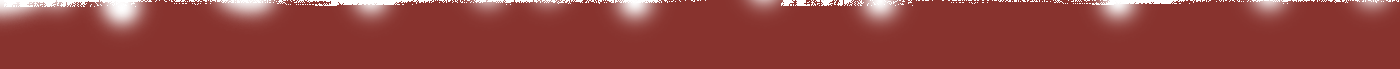
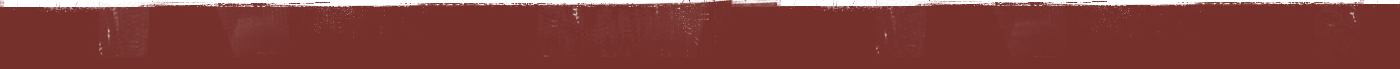
Updated design

Changed region(s): [[0.0, 0.0, 1.0, 0.5217]]

diff --git a/public/css/style_0.0.12.css b/public/css/style_0.0.12.css
@@ -174,23 +174,6 @@ span.amp {
   /* W3C */
   filter: progid:DXImageTransform.Microsoft.gradient( startColorstr='#8ab15f', endColorstr='#8ab52d',GradientType=0 );
   /* IE6-9 */
-  -webkit-box-shadow: 0 2px 2px 0 rgba(0, 0, 0, 0.1) ;
-  -moz-box-shadow: 0 2px 2px 0 rgba(0, 0, 0, 0.1) ;
-  box-shadow: 0 2px 2px 0 rgba(0, 0, 0, 0.1) ;
-  -webkit-border-radius: 5px;
-  -moz-border-radius: 5px;
-  -ms-border-radius: 5px;
-  -o-border-radius: 5px;
-  border-radius: 5px;
-  text-shadow: 0 -1px 0 rgba(0, 0, 0, 0.15);
-  text-align: center;
-  color: #fff;
-  text-transform: uppercase;
-  font-size: rem-calc(25);
-  border-top: 1px solid #8ab15f;
-  border-left: 1px solid #8ab52d;
-  border-right: 1px solid #8ab52d;
-  border-bottom: 1px solid #8ab52d;
 }
 /* line 224, ../scss/_mixins.scss */
 .lime-button:hover, .gd-button:hover, #home-slider .cta-button:hover {
@@ -1329,7 +1312,7 @@ body {
   font-weight: 400;
   line-height: 1.5;
   color: #fff;
-  background: #DDD5C0;
+  background: #88332E;
   -webkit-font-smoothing: antialiased;
   -moz-osx-font-smoothing: grayscale;
 }
@@ -2997,6 +2980,16 @@ h3 small,
 h4 small,
 h5 small,
 h6 small {
+  color: #231a1e;
+  line-height: 0;
+}
+
+nav h1 small a,
+nav h2 small a,
+nav h3 small a,
+nav h4 small a,
+nav h5 small a,
+nav h6 small a{
   color: #231a1e;
   line-height: 0;
 }
@@ -6528,7 +6521,6 @@ body h1 a:hover, body h1 a:active, body h1 a:focus, body h2 a:hover, body h2 a:a
   top: 0;
   left: 0;
   display: block;
-  margin: 8em 0 4em 0;
 }
 
 /* line 61, ../scss/_slider.scss */
@@ -6607,6 +6599,7 @@ body h1 a:hover, body h1 a:active, body h1 a:focus, body h2 a:hover, body h2 a:a
 }
 /* line 107, ../scss/_app-styles.scss */
 #home-slider .slick-slide {
+  min-height: 745px;
   background-position: center center !important;
   background-repeat: no-repeat !important;
 }
@@ -6674,7 +6667,7 @@ body h1 a:hover, body h1 a:active, body h1 a:focus, body h2 a:hover, body h2 a:a
 --------------------------------*/
 /* line 177, ../scss/_app-styles.scss */
 .content-top {
-
+  background: url(../images/backgrounds/bg-body-top.png) repeat-x center top;
   height: 52px;
   margin-top: -140px;
   position: relative;
@@ -6690,7 +6683,8 @@ body h1 a:hover, body h1 a:active, body h1 a:focus, body h2 a:hover, body h2 a:a
 
 /* line 191, ../scss/_app-styles.scss */
 #main-content {
-  background: #DDD5C0 url(../images/backgrounds/bg-body.jpg) repeat center top;
+  background: #88332e url(../images/backgrounds/bg-body.png) no-repeat center top;
+  min-height: 450px;
 }
 
 /*--------------------------------
@@ -6905,10 +6899,9 @@ a.read-more:hover, a.read-more:active, a.read-more:focus {
 --------------------------------*/
 /* line 357, ../scss/_app-styles.scss */
 footer.main-footer {
-  background: #88332E url(../images/backgrounds/bg-footer-fill.png) repeat-x center top;
+  background: #75302c url(../images/backgrounds/bg-footer-fill.png) repeat-x center top;
   padding: 2rem 0 1rem;
-  padding-top: 4em;
-  margin-top: none;
+  /*margin-top: 6.66667rem;*/
 }
 
 /* line 361, ../scss/_app-styles.scss */

diff --git a/resources/views/forums/posts.blade.php b/resources/views/forums/posts.blade.php
@@ -2,19 +2,29 @@
 
 @section('content')
 
-    <section id="main-content" style="margin-top: 50px;">
+    <section class="inner-slider">
+      <div style="background: url('{{ asset('images/slider_bg.png') }}')"></div>
+    </section>
+
+    <div class="content-top"></div>
+
+    <section id="main-content">
 
         <div class="row">
             <div class="small-16 columns">
                 <nav>
-                    <ul class="breadcrumbs" style="margin-top: 10px;">
-                        <li><a href="{{ route('forums.lists') }}">Forum</a></li>
-                        <li><a href="{{ route('forums.details', $forum->id) }}">{{ $forum->name }}</a></li>
-                        <li class="active">{{ $topic->name }}</li>
-                    </ul>
+                    <h3>
+                        <small>
+                            <a href="{{ route('forums.lists') }}">Forum</a>
+                             / 
+                             <a href="{{ route('forums.details', $forum->id) }}">{{ $forum->name }}</a>
+                             /
+                        </small>
+                        {{ $topic->name }}
+                    </h3>
                 </nav>
-                <h1>{{ $topic->name }}</h1>
                 <h5>{{ $topic->description }}</h5>
+                <div class="big-sep"></div>
             </div>
         </div>
 
@@ -43,7 +53,7 @@
                     </div>
 
                 </div>
-                <hr>
+                <div class="big-sep"></div>
                 <h2>Comments</h2>
 
                 @foreach($comments as $comment)

diff --git a/resources/views/forums/details.blade.php b/resources/views/forums/details.blade.php
@@ -2,22 +2,26 @@
 
 @section('content')
 
-    <section id="main-content" style="margin-top: 50px; padding-bottom: 100px;">
+    <section class="inner-slider">
+      <div style="background: url('{{ asset('images/slider_bg.png') }}')"></div>
+    </section>
+
+    <div class="content-top"></div>
+
+    <section id="main-content">
 
         <div class="row">
             <div class="small-16 columns">
                 <nav>
-                    <ul class="breadcrumbs" style="margin-top: 10px;">
-                        <li><a href="{{ route('forums.lists') }}">Forum</a></li>
-                        <li class="active">{{ $forum->name }}</li>
-                    </ul>
+                    <h3>
+                        <small>
+                            <a href="{{ route('forums.lists') }}">Forum</a>
+                             / 
+                        </small>
+                        {{ $forum->name }}
+                    </h3>
                 </nav>
-            </div>
-        </div>
-
-        <div class="row">
-            <div class="small-16 columns">
-                <h1>Topics</h1>
+                <div class="big-sep"></div>
             </div>
         </div>
 

diff --git a/resources/views/forums/lists.blade.php b/resources/views/forums/lists.blade.php
@@ -2,21 +2,22 @@
 
 @section('content')
 
-    <section id="main-content" style="margin-top: 50px;">
+    <section class="inner-slider">
+      <div style="background: url('{{ asset('images/slider_bg.png') }}')"></div>
+    </section>
+
+    <div class="content-top"></div>
+
+    <section id="main-content">
 
         <div class="row">
             <div class="small-16 columns">
                 <nav>
-                    <ul class="breadcrumbs" style="margin-top: 10px;">
-                        <li class="active">Forum</li>
-                    </ul>
+                    <h3>
+                        Forum
+                    </h3>
                 </nav>
-            </div>
-        </div>
-
-        <div class="row">
-            <div class="small-16 columns">
-                <h1>Forum</h1>
+                <div class="big-sep"></div>
             </div>
         </div>
 

diff --git a/resources/views/partials/layout.blade.php b/resources/views/partials/layout.blade.php
@@ -6,7 +6,7 @@
     <meta name="viewport" content="width=device-width, initial-scale=1.0">
     <title>HeroesAwaken</title>
     <link rel="stylesheet" href="https://fonts.googleapis.com/css?family=Luckiest+Guy|Bitter:700|Open+Sans:400,600,600italic">
-    <link rel="stylesheet" href="{{ asset('css/style_0.0.12.css') }}">
+    <link rel="stylesheet" href="{{ asset('css/style_0.0.12.css') }}?v1">
     <link rel="stylesheet" href="{{ asset('css/font-awesome.min.css') }}">
     <script src="//cdn.ckeditor.com/4.7.1/standard/ckeditor.js"></script>
     <link rel="shortcut icon" href="{{ asset('images/favicon.png') }}" />

diff --git a/resources/views/home.blade.php b/resources/views/home.blade.php
@@ -9,7 +9,9 @@
 
     <section id="home-slider">
         <!--slide 1-->
-        <img src="{{ asset('images/slider_.png') }}" alt="">
+        <div style="background: url('{{ asset('images/slider_.png') }}')">
+           
+        </div>
         <!--//slide 1-->
         <!--slide-2-->
     {{--<div style="background: url({{ asset('images/placeholders/slider_2.jpg') }})">--}}

diff --git a/resources/views/about.blade.php b/resources/views/about.blade.php
@@ -2,7 +2,13 @@
 
 @section('content')
 
-    <section id="main-content" style="margin-top: 50px;">
+    <section class="inner-slider">
+      <div style="background: url('{{ asset('images/slider_bg.png') }}')"></div>
+    </section>
+
+    <div class="content-top"></div>
+
+    <section id="main-content">
 
         <div class="row">
             <div class="small-16 columns">

diff --git a/resources/views/auth/login.blade.php b/resources/views/auth/login.blade.php
@@ -2,7 +2,13 @@
 
 @section('content')
 
-    <section id="main-content" style="margin-top: 50px;">
+    <section class="inner-slider">
+      <div style="background: url('{{ asset('images/slider_bg.png') }}')"></div>
+    </section>
+
+    <div class="content-top"></div>
+
+    <section id="main-content">
 
         <div class="row">
             <div class="small-16 columns">

diff --git a/resources/views/auth/register.blade.php b/resources/views/auth/register.blade.php
@@ -2,7 +2,13 @@
 
 @section('content')
 
-    <section id="main-content" style="margin-top: 50px;">
+    <section class="inner-slider">
+      <div style="background: url('{{ asset('images/slider_bg.png') }}')"></div>
+    </section>
+
+    <div class="content-top"></div>
+
+    <section id="main-content">
 
         <div class="row">
             <div class="small-16 columns">

diff --git a/resources/views/contact.blade.php b/resources/views/contact.blade.php
@@ -2,7 +2,13 @@
 
 @section('content')
 
-    <section id="main-content" style="margin-top: 50px;">
+    <section class="inner-slider">
+      <div style="background: url('{{ asset('images/slider_bg.png') }}')"></div>
+    </section>
+
+    <div class="content-top"></div>
+
+    <section id="main-content">
 
         <div class="row">
             <div class="small-16 columns">

diff --git a/resources/views/news.blade.php b/resources/views/news.blade.php
@@ -2,7 +2,13 @@
 
 @section('content')
 
-    <section id="main-content" style="margin-top: 50px;">
+    <section class="inner-slider">
+      <div style="background: url('{{ asset('images/slider_bg.png') }}')"></div>
+    </section>
+
+    <div class="content-top"></div>
+
+    <section id="main-content">
 
         <div class="row">
             <div class="small-16 columns">
